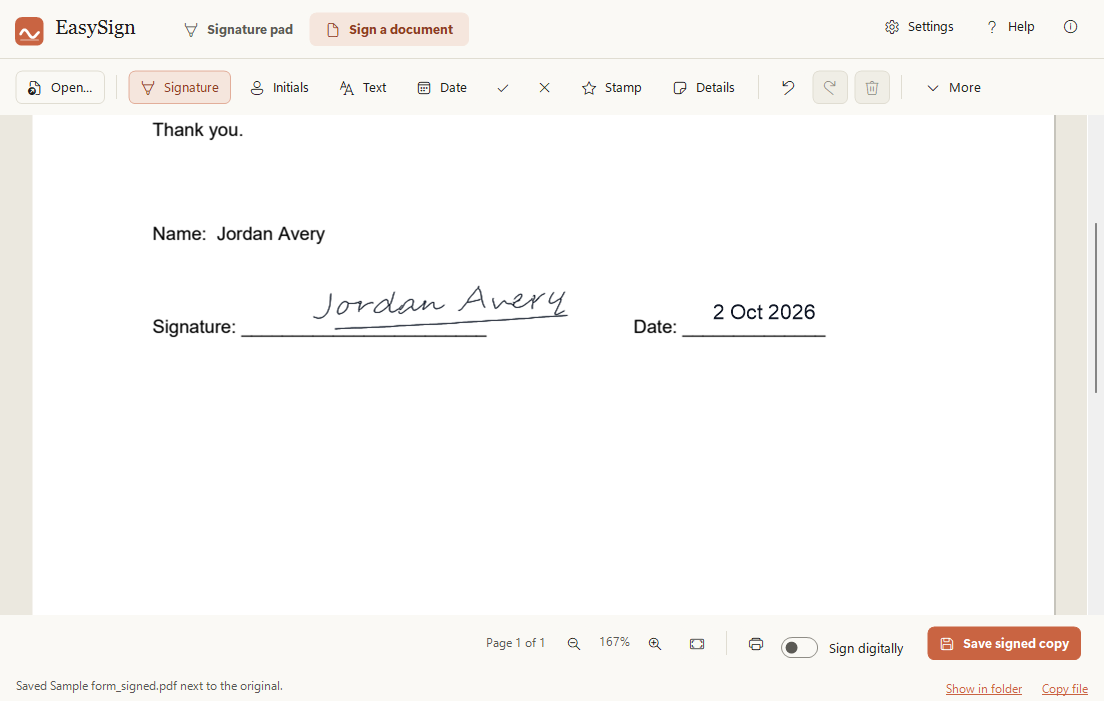
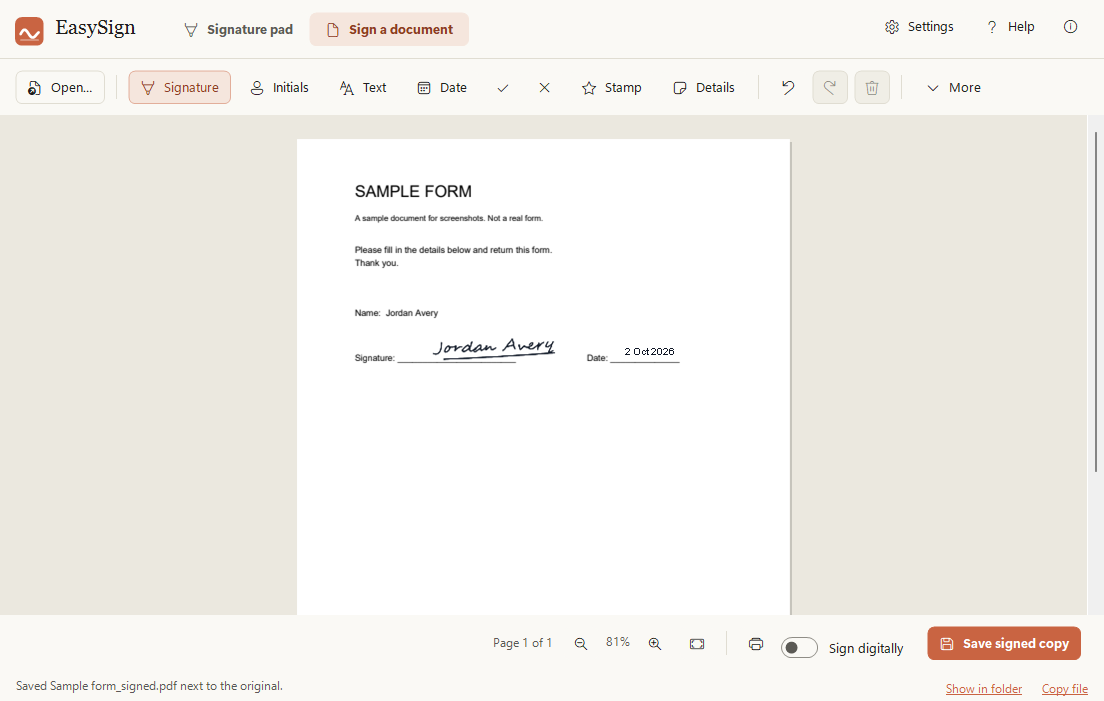
How it works: a distinct picture for each step, saved-file card on step 3

diff --git a/index.html b/index.html
@@ -194,6 +194,16 @@
   html.motion .screens-stack img { opacity: 0; transform: scale(1.04); }
   html.motion .screens-stack img.on { opacity: 1; transform: none; }
   html:not(.motion) .screens-stack img:not(:nth-child(2)) { display: none; }
+  .filecard {
+    position: absolute; right: 4%; bottom: 13%; display: flex; gap: 12px; align-items: center; max-width: 72%;
+    padding: 12px 16px; border-radius: 12px; background: #1F1E1D; color: #F5F4EE; font-size: clamp(.7rem, 1.3vw, .92rem);
+    opacity: 0; transform: translateY(18px) scale(.97); transition: opacity .5s var(--ease), transform .6s var(--ease);
+  }
+  .filecard svg { flex: 0 0 auto; width: 26px; height: 26px; color: #D97757; }
+  .filecard b { display: block; font-weight: 600; }
+  .filecard span { color: #B6B2A8; }
+  .screens-stack.step-3 .filecard { opacity: 1; transform: none; transition-delay: .35s; }
+  html:not(.motion) .filecard { display: none; }
   @media (max-width: 860px) {
     .how { grid-template-columns: minmax(0, 1fr); gap: 18px; }
     .rstep { padding: 4px 0 10px; }
@@ -443,8 +453,12 @@
           </div>
           <div class="screens-stack">
             <img src="images/step-open-light.png" alt="Step 1: the Sign a document start screen" width="1104" height="701" loading="lazy">
-            <img src="images/document-light.png" alt="Step 2: a sample form with a signature and the date placed on it" width="1104" height="701" loading="lazy">
-            <img src="images/step-saved-light.png" alt="Step 3: the signed copy saved, with Copy file and Show in folder" width="1104" height="701" loading="lazy">
+            <img src="images/step-place-light.png" alt="Step 2: the signing window open over a sample form, with a signature on the pad" width="1104" height="701" loading="lazy">
+            <img src="images/step-saved-light.png" alt="Step 3: the whole signed form, saved as a copy next to the original" width="1104" height="701" loading="lazy">
+            <div class="filecard" aria-hidden="true">
+              <svg viewBox="0 0 24 24" fill="none" stroke="currentColor" stroke-width="2" stroke-linecap="round" stroke-linejoin="round"><path d="M14 3H7a2 2 0 0 0-2 2v14a2 2 0 0 0 2 2h10a2 2 0 0 0 2-2V8z"/><path d="M14 3v5h5M9 15l2 2 4-4"/></svg>
+              <div><b>Sample form_signed.pdf</b><span>Copied. Press Ctrl+V in your email to attach it.</span></div>
+            </div>
           </div>
         </div>
       </div>
@@ -798,7 +812,7 @@
   var bar = $('.progress'), header = $('header');
   var sign = { el: $('#scene-sign'), device: $('.device'), paths: $$('.device svg.ink path'), toast: $('.toast'), phrases: $$('.sign-head [data-at]') };
   var stmt = $('#scene-statement');
-  var steps = { el: $('#scene-steps'), rows: $$('.rstep'), imgs: $$('.screens-stack img'), fill: $('.rail .fill') };
+  var steps = { el: $('#scene-steps'), rows: $$('.rstep'), imgs: $$('.screens-stack img'), fill: $('.rail .fill'), stack: $('.screens-stack') };
   var gal = { el: $('#scene-gallery'), track: $('.track'), rail: $('.gallery-rail') };
   var lastY = window.scrollY, ticking = false;
   var inkTotal = sign.paths.reduce(function (s, q) { return s + (+q.dataset.len || 0); }, 0);
@@ -843,6 +857,7 @@
     steps.fill.style.transform = 'scaleY(' + pt.toFixed(4) + ')';
     steps.rows.forEach(function (r, i) { r.classList.toggle('on', i === active); });
     steps.imgs.forEach(function (im, i) { im.classList.toggle('on', i === active); });
+    steps.stack.classList.toggle('step-3', active === 2);
 
     // Scene 4: the screens slide sideways until the last one is in view.
     var pg = ease(range(progress(gal.el), 0.16, 0.92));
